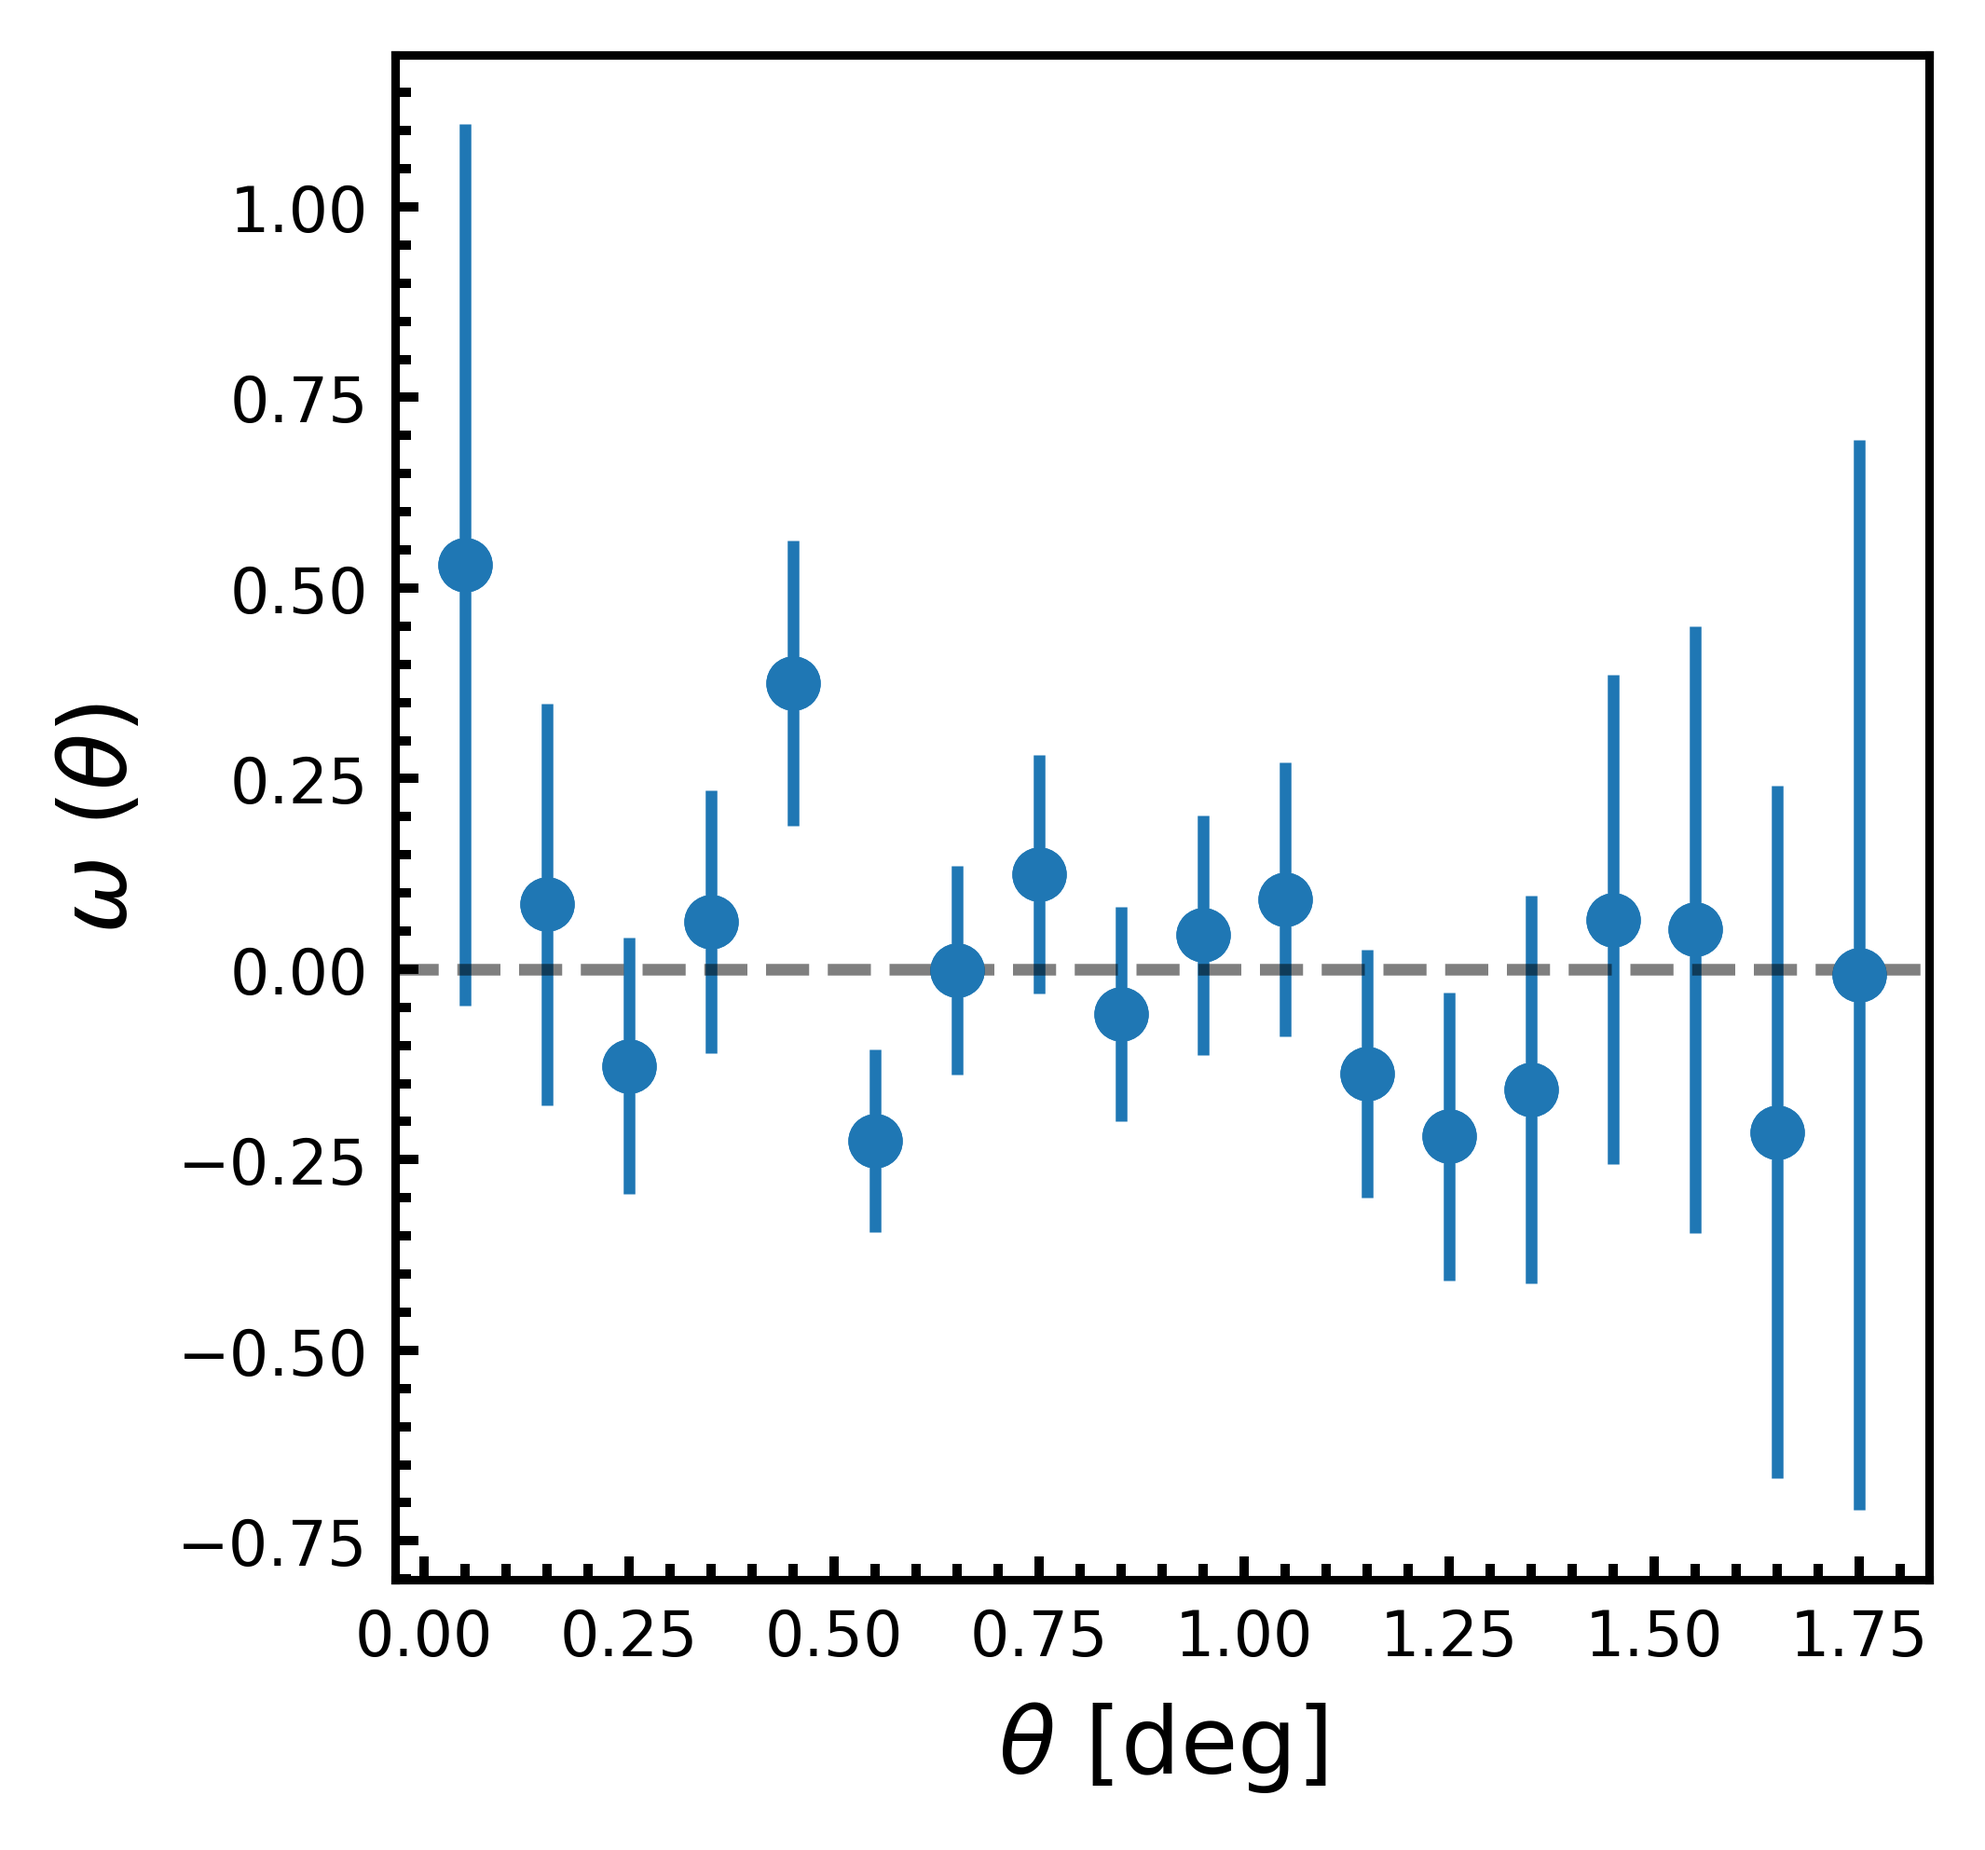
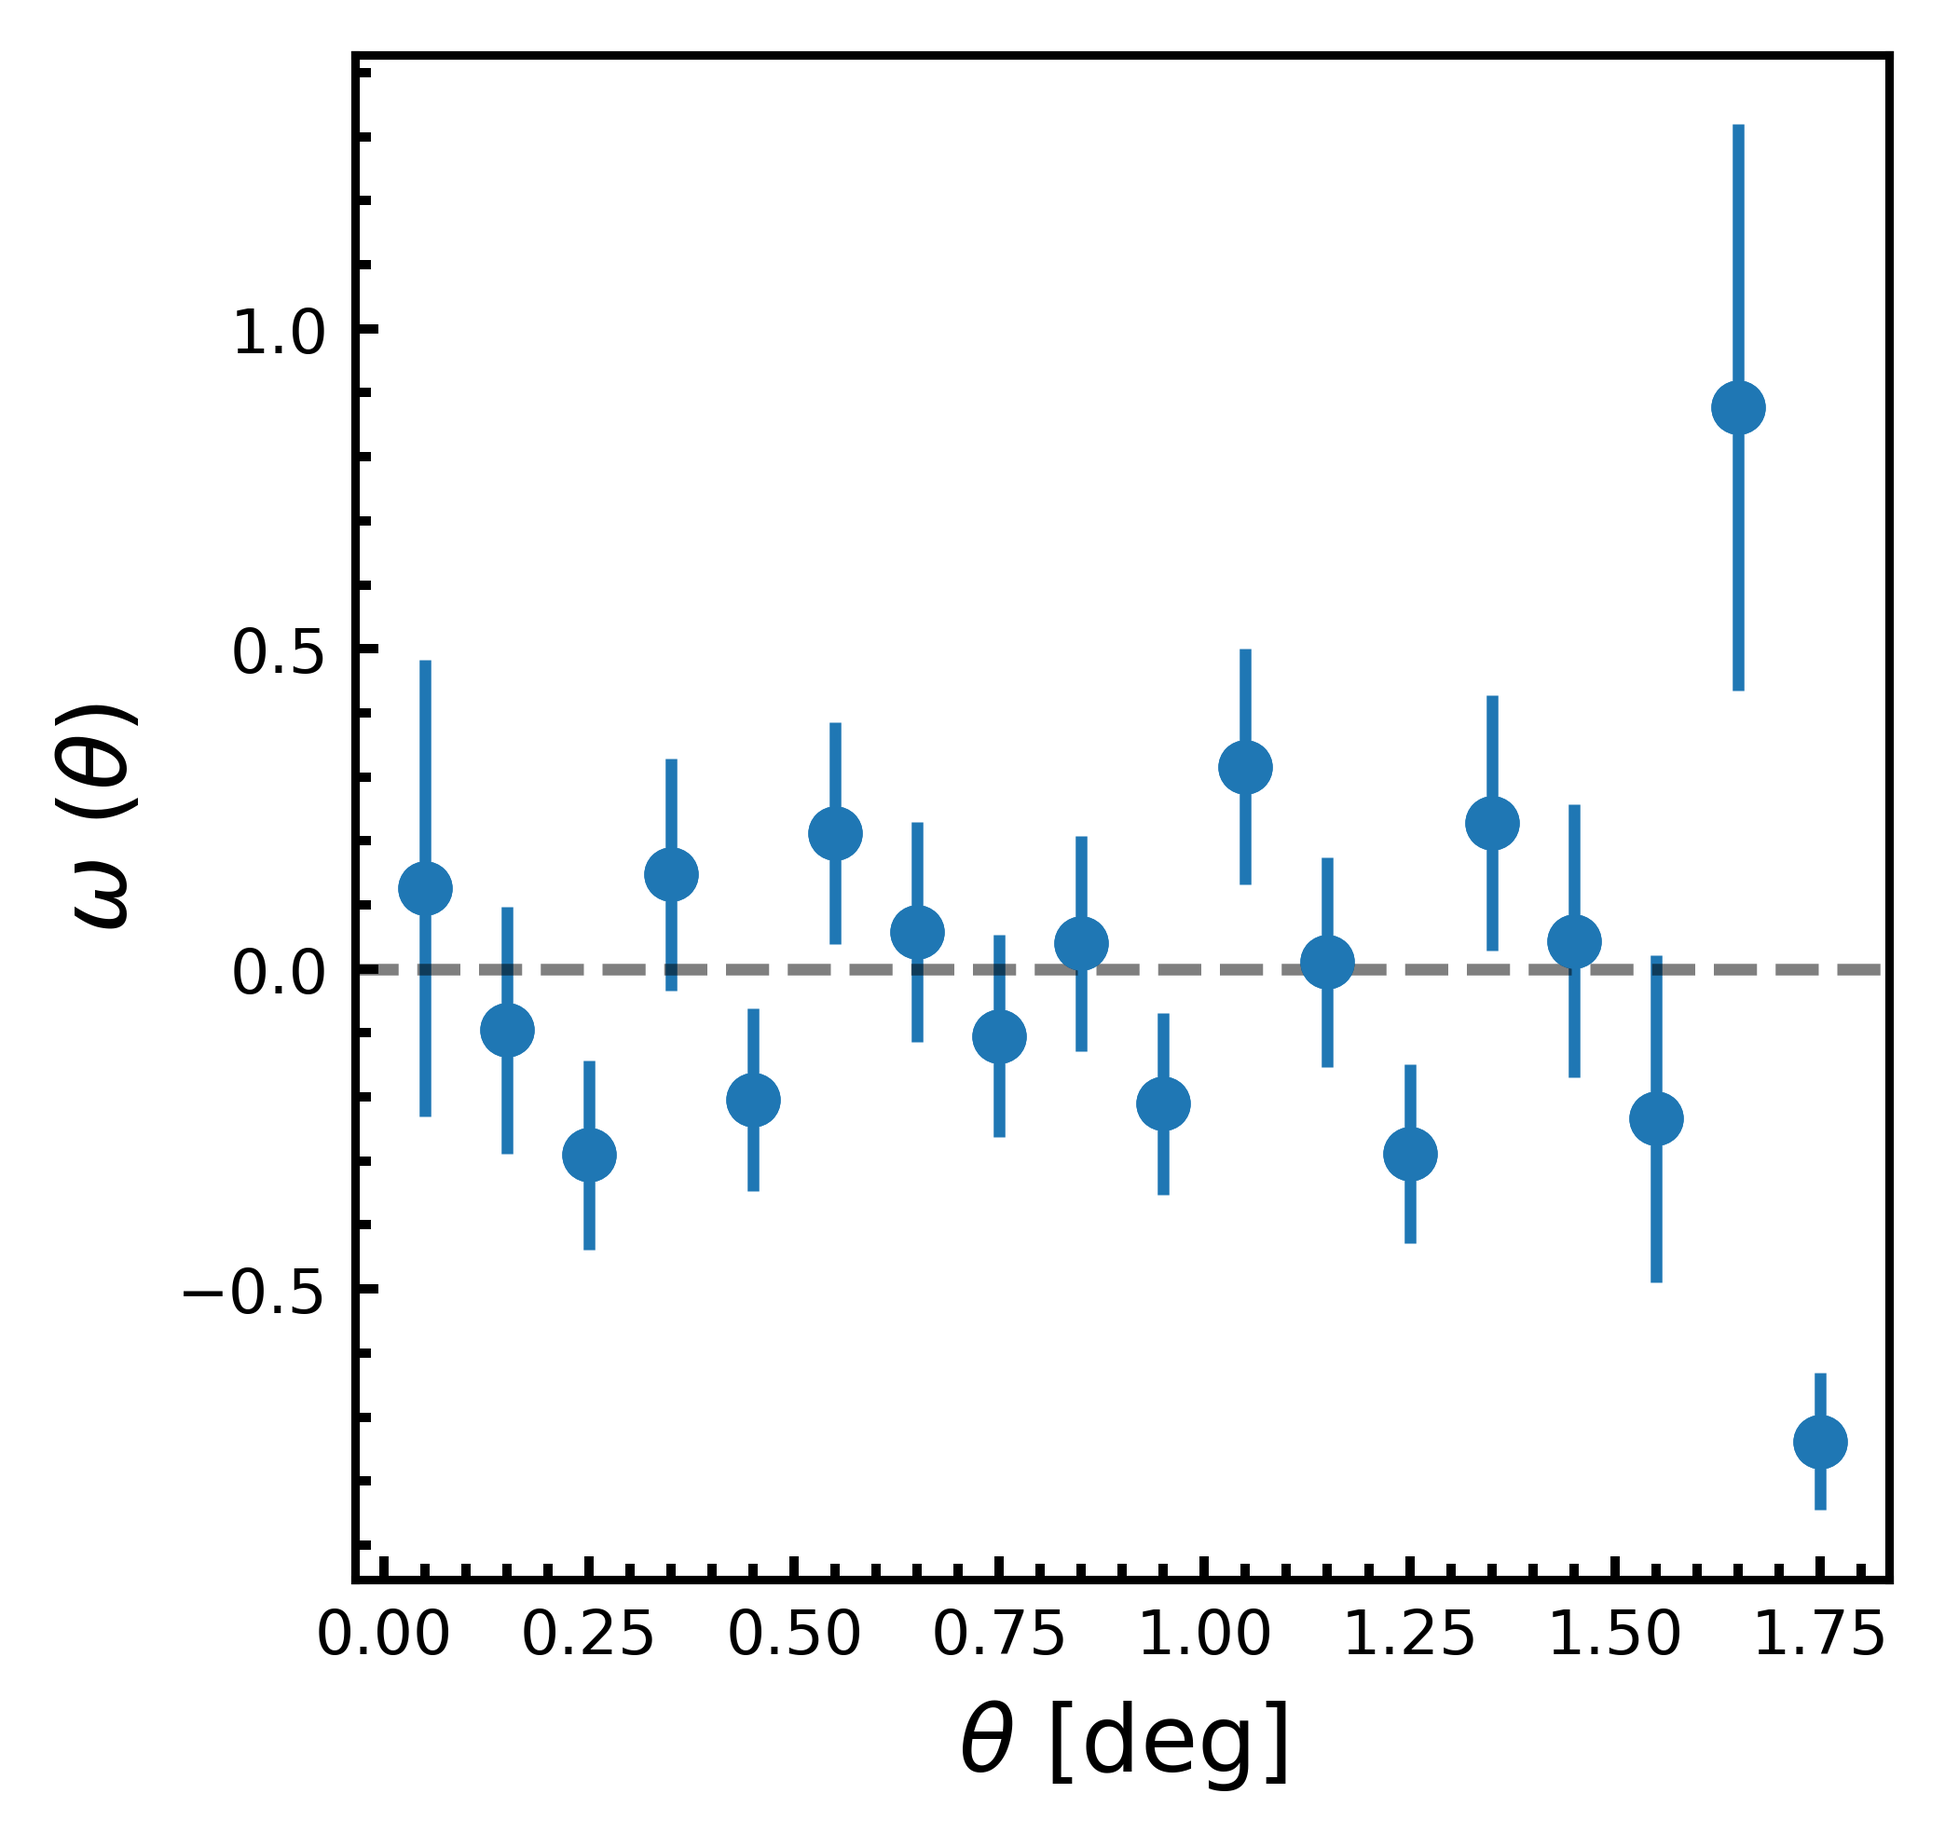
Updating CDFS masking

Changed region(s): [[0.0934, 0.0308, 0.9655, 0.9844], [0.9344, 0.8613, 0.9655, 0.8921], [0.0311, 0.3999, 0.0623, 0.4307]]

diff --git a/angular_correlation_function.py b/angular_correlation_function.py
@@ -39,7 +39,7 @@ def angular_function(data_data, data_random, random_random, theta_min, theta_max
     r_r_norm = r_r/len(random_random)
 
     acf = (d_d_norm - (2 * d_r_norm) + r_r_norm)/r_r_norm
-    u_acf = (1 + acf)/np.sqrt(d_d)
+    u_acf = (1 + acf)/np.sqrt(d_d)  # see equation five of ota 2018
     return acf, u_acf
 
 def full_angular_separation_function(data_data, data_random, random_random, theta_bins):
@@ -57,20 +57,20 @@ def full_angular_separation_function(data_data, data_random, random_random, thet
 
 
 if __name__ == '__main__':
-    INFILE = 'candidates_cdfs_e.txt'
-    DECAM_REGION_FILE = '../CDFS_LAGER/DECAM_CDFS.reg'#'DECAM.reg'
-    FITS_FILE  = '../CDFS_LAGER/n964.fits'#'../correct_stacks/N964/n964.fits'
+    INFILE = 'candidates_e.txt'
+    DECAM_REGION_FILE = 'DECAM.reg'
+    FITS_FILE  = '../correct_stacks/N964/n964.fits'
 
     hdul = fits.open(FITS_FILE)
     wcs = WCS(hdul[0].header)
     ra_candidates, dec_candidates = np.loadtxt(INFILE, unpack=True)
     decam_region = load_region(DECAM_REGION_FILE)
 
-    #ra_min, ra_max = 355.95*u.deg.to(u.rad), 358.3*u.deg.to(u.rad)
-    #dec_min, dec_max = -31.82*u.deg.to(u.rad), -29.84*u.deg.to(u.rad)
+    ra_min, ra_max = 355.95*u.deg.to(u.rad), 358.3*u.deg.to(u.rad)
+    dec_min, dec_max = -31.82*u.deg.to(u.rad), -29.84*u.deg.to(u.rad)
 
-    ra_min, ra_max = 53.8853418 * u.deg.to(u.rad), 51.4000866 * u.deg.to(u.rad)
-    dec_min, dec_max = -29 * u.deg.to(u.rad), -27*u.deg.to(u.rad)
+    #ra_min, ra_max = 53.8853418 * u.deg.to(u.rad), 51.4000866 * u.deg.to(u.rad)
+    #dec_min, dec_max = -29 * u.deg.to(u.rad), -27*u.deg.to(u.rad)
 
 
     """

diff --git a/plot_onsky_distribution.py b/plot_onsky_distribution.py
@@ -9,7 +9,6 @@ from astropy.io import fits
 from astropy.wcs import WCS
 from astropy.visualization import ZScaleInterval
 
-from plot_cumulative import CDFS_AREA
 from regionfy_catalog import load_region
 import plotting
 
@@ -49,16 +48,6 @@ region_decam_mask[region_decam_mask == 0] = np.nan
 image_data[0].data = image_data[0].data * region_decam_mask
 
 if __name__ == '__main__':
-    #Determine Area of CDFS
-    CDFS_REGION = '../CDFS_LAGER/DECAM_CDFS.reg'
-    CDFS_CANDIDATES = 'candidates_cdfs_e.txt'
-    
-    number_candidates_cdfs = len(np.loadtxt(CDFS_CANDIDATES))
-    area_cdfs_arcsec = CDFS_AREA * u.arcsec
-    area_cdfs_deg = area_cdfs_arcsec.to(u.deg)
-    area_cdfs_degrees = area_cdfs_deg.value
-
-
     INFILE = 'candidates_e.txt'
     ra, dec = np.loadtxt(INFILE, unpack=True)
 
@@ -66,7 +55,7 @@ if __name__ == '__main__':
     ra_qso_plot, dec_qso_plot = decam_wcs.world_to_pixel_values(RA_QSO, DEC_QSO)
 
     #On sky distribution plot.
-    #region_1 = set_region(ra_qso_plot, dec_qso_plot, 1)
+    region_1 = set_region(ra_qso_plot, dec_qso_plot, 35)
     region_10 = set_region(ra_qso_plot, dec_qso_plot, 55.2)
     #region_20 = set_region(ra_qso_plot, dec_qso_plot, 20)
 
@@ -78,7 +67,7 @@ if __name__ == '__main__':
     ax.set_xlabel('RA')
     ax.set_ylabel('DEC')
     ax.imshow(decam_hdu[0].data, alpha=0)
-    #region_1.plot(ax=ax, color='red', lw=2.0, ls=':')
+    region_1.plot(ax=ax, color='red', lw=2.0, ls=':')
     region_10.plot(ax=ax, color='red', lw=2.0, ls=':')
     #region_20.plot(ax=ax, color='red', lw=2.0, ls=':')
     region_decam_fov.plot(ax = ax, color='k', lw=2.0)

diff --git a/make_masked_fits_files.py b/make_masked_fits_files.py
@@ -87,24 +87,24 @@ def read_region_file(file_name: str) -> list[PolygonPixelRegion]:
 
 if __name__ == '__main__':
     INFILE = '../CDFS_LAGER/cdfs_masks.reg'
-    n964_file = '../CDFS_LAGER/n964_weight.fits'
-    i_file = '../CDFS_LAGER/i_weight.fits'
-    z_file = '../CDFS_LAGER/z_weight.fits'
-    hdu = fits.open(n964_file)
-    n964 = get_weights_mask(n964_file, 0.25)
-    i = get_weights_mask(i_file, 0.4)
-    z = get_weights_mask(z_file, 0.17)
+    N964_FILE = '../CDFS_LAGER/CDFS_NB.fits.weight.fits'
+    I_FILE = '../CDFS_LAGER/CDFS_i.fits.weight.fits'
+    Z_FILE = '../CDFS_LAGER/CDFS_z.fits.weight.fits'
+    hdu = fits.open(N964_FILE)
+    n964 = get_weights_mask(N964_FILE, 0.25)
+    i = get_weights_mask(I_FILE, 0.4)
+    z = get_weights_mask(Z_FILE, 0.17)
 
     thing = np.ones(hdu[0].data.shape)
     thing[n964] = 0
     thing[i] = 0
     thing[z] = 0
 
-    wcs = WCS(fits.open(n964_file)[0].header)
+    wcs = WCS(fits.open(N964_FILE)[0].header)
     regions  = read_region_file(INFILE)
-    decam_region = read_region_file('../CDFS_LAGER/DECAM_CDFS.reg')[0]
+    decam_region = read_region_file('../CDFS_LAGER/DECAM_CDFS_FULL.reg')[0]
     masks = [region.to_mask() for region in track(regions, 'making masks')]
-    real_masks = [mask.to_image(hdu[0].data.shape) for mask in track(masks, 'to data shape')]
+    real_masks = [mask.to_image(hdu[0].data.shape) for mask in track(masks, 'to datad shape')]
     region_mask = np.zeros(hdu[0].data.shape)
     for mask in real_masks:
         region_mask += mask

diff --git a/poissin_significance.py b/poissin_significance.py
@@ -40,22 +40,22 @@ def calculate_area_ratio(mask: Mask, radius: float) -> float:
     center = mask.wcs.world_to_pixel_values(RA_QSO.value, DEC_QSO.value)
     outer_area = mask.calculate_area(center, radius_pixels, 100000)
     inner_area = mask.calculate_area(center, 0, radius_pixels)
-    ratio = outer_area/inner_area
+    ratio = inner_area/outer_area
     return ratio.value
 
 if __name__ == '__main__':
     decam = Mask('DECAM_MASK.fits')
     ra, dec = np.loadtxt('candidates_e.txt', unpack=True)
 
-    distances = np.arange(55, 60, 0.1) *u.Mpc
+    distances = np.arange(70, 76, 1) *u.Mpc
 
     sigmas = []
     for distance in track(distances):
         inner_region_distance_deg = DEG_PER_MPC * distance
         inner, outer = count_inner_outer(ra, dec, inner_region_distance_deg)
         ratio = calculate_area_ratio(decam, inner_region_distance_deg)
-        expected_inner = inner * ratio
-        
+        expected_inner = outer * ratio
+
         probability = poisson.cdf(inner, expected_inner)
         sigmas.append(norm.ppf(probability))
 
